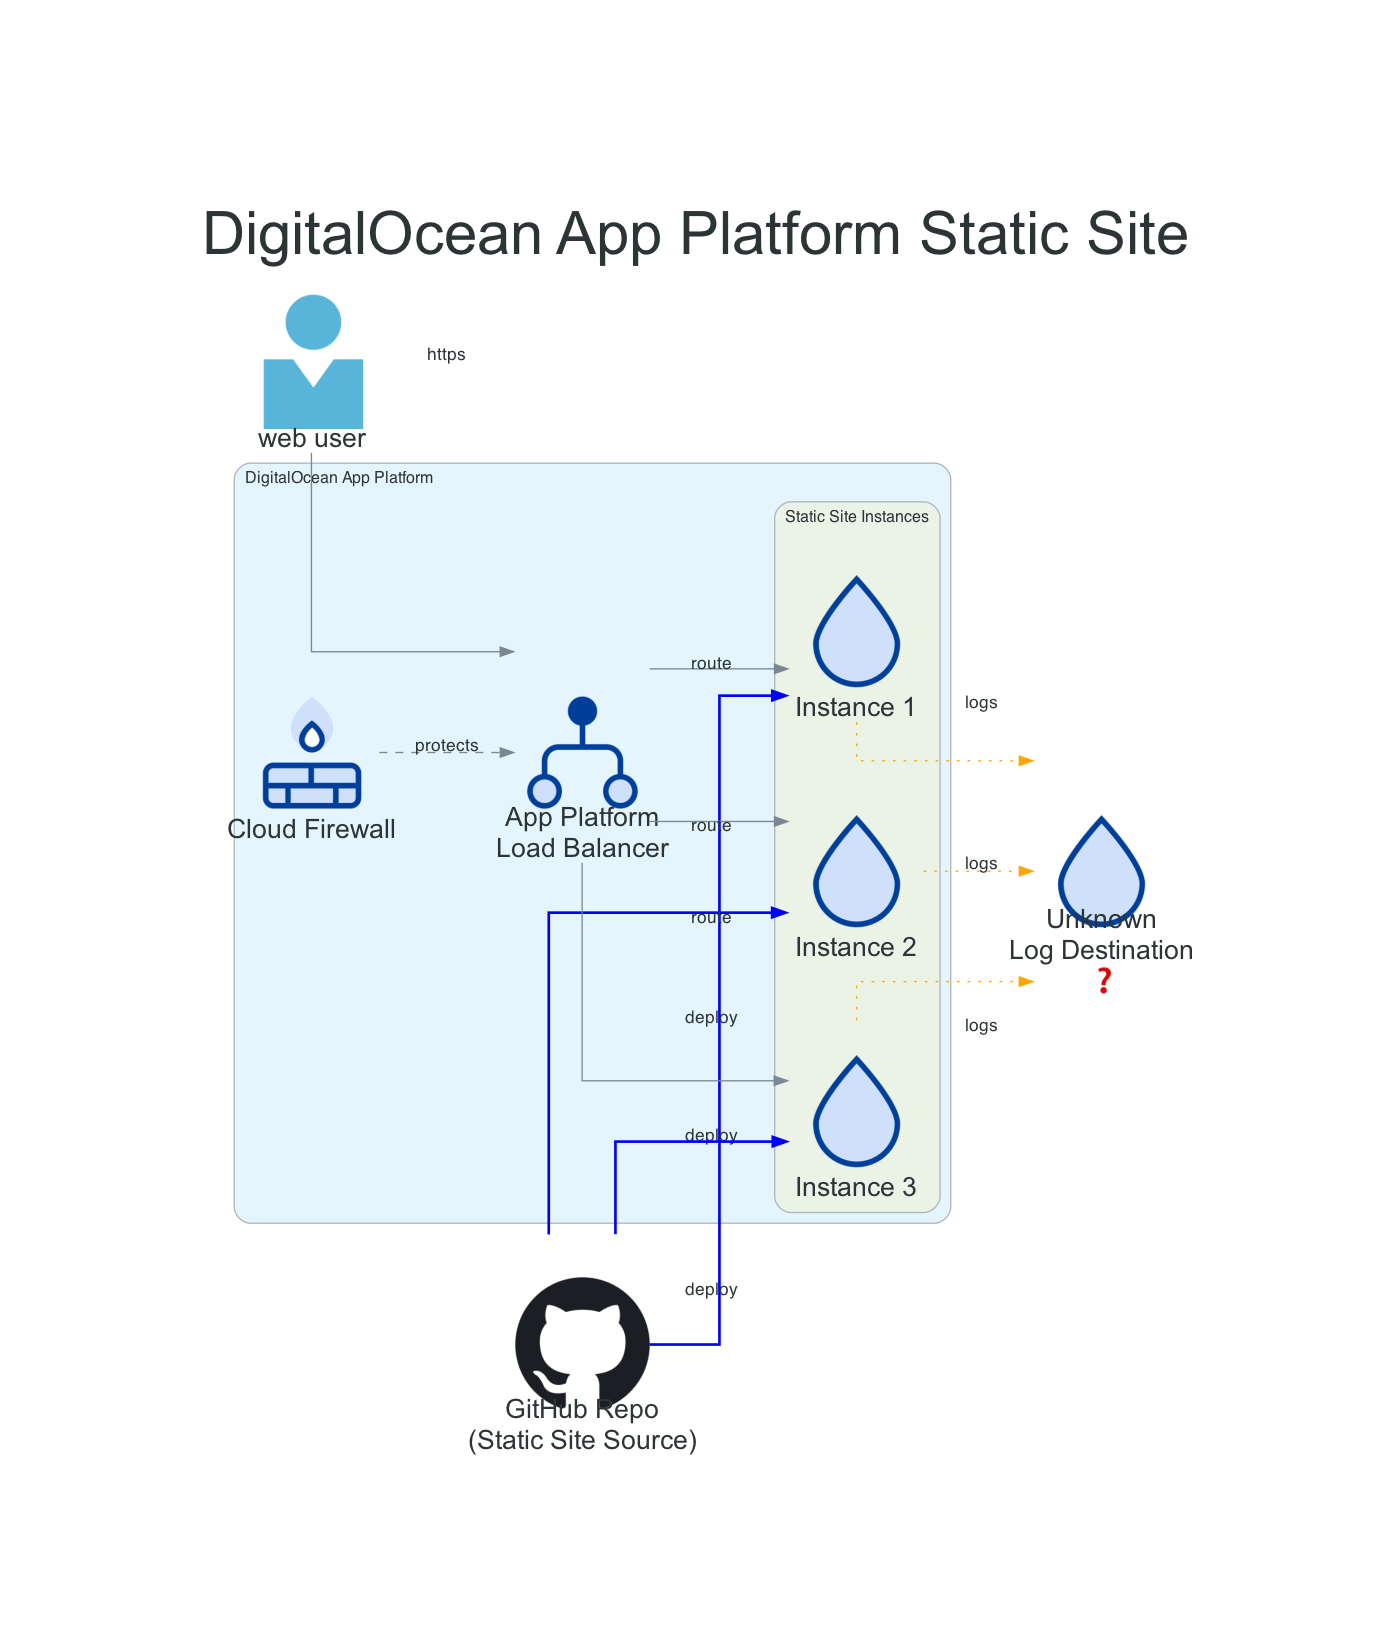
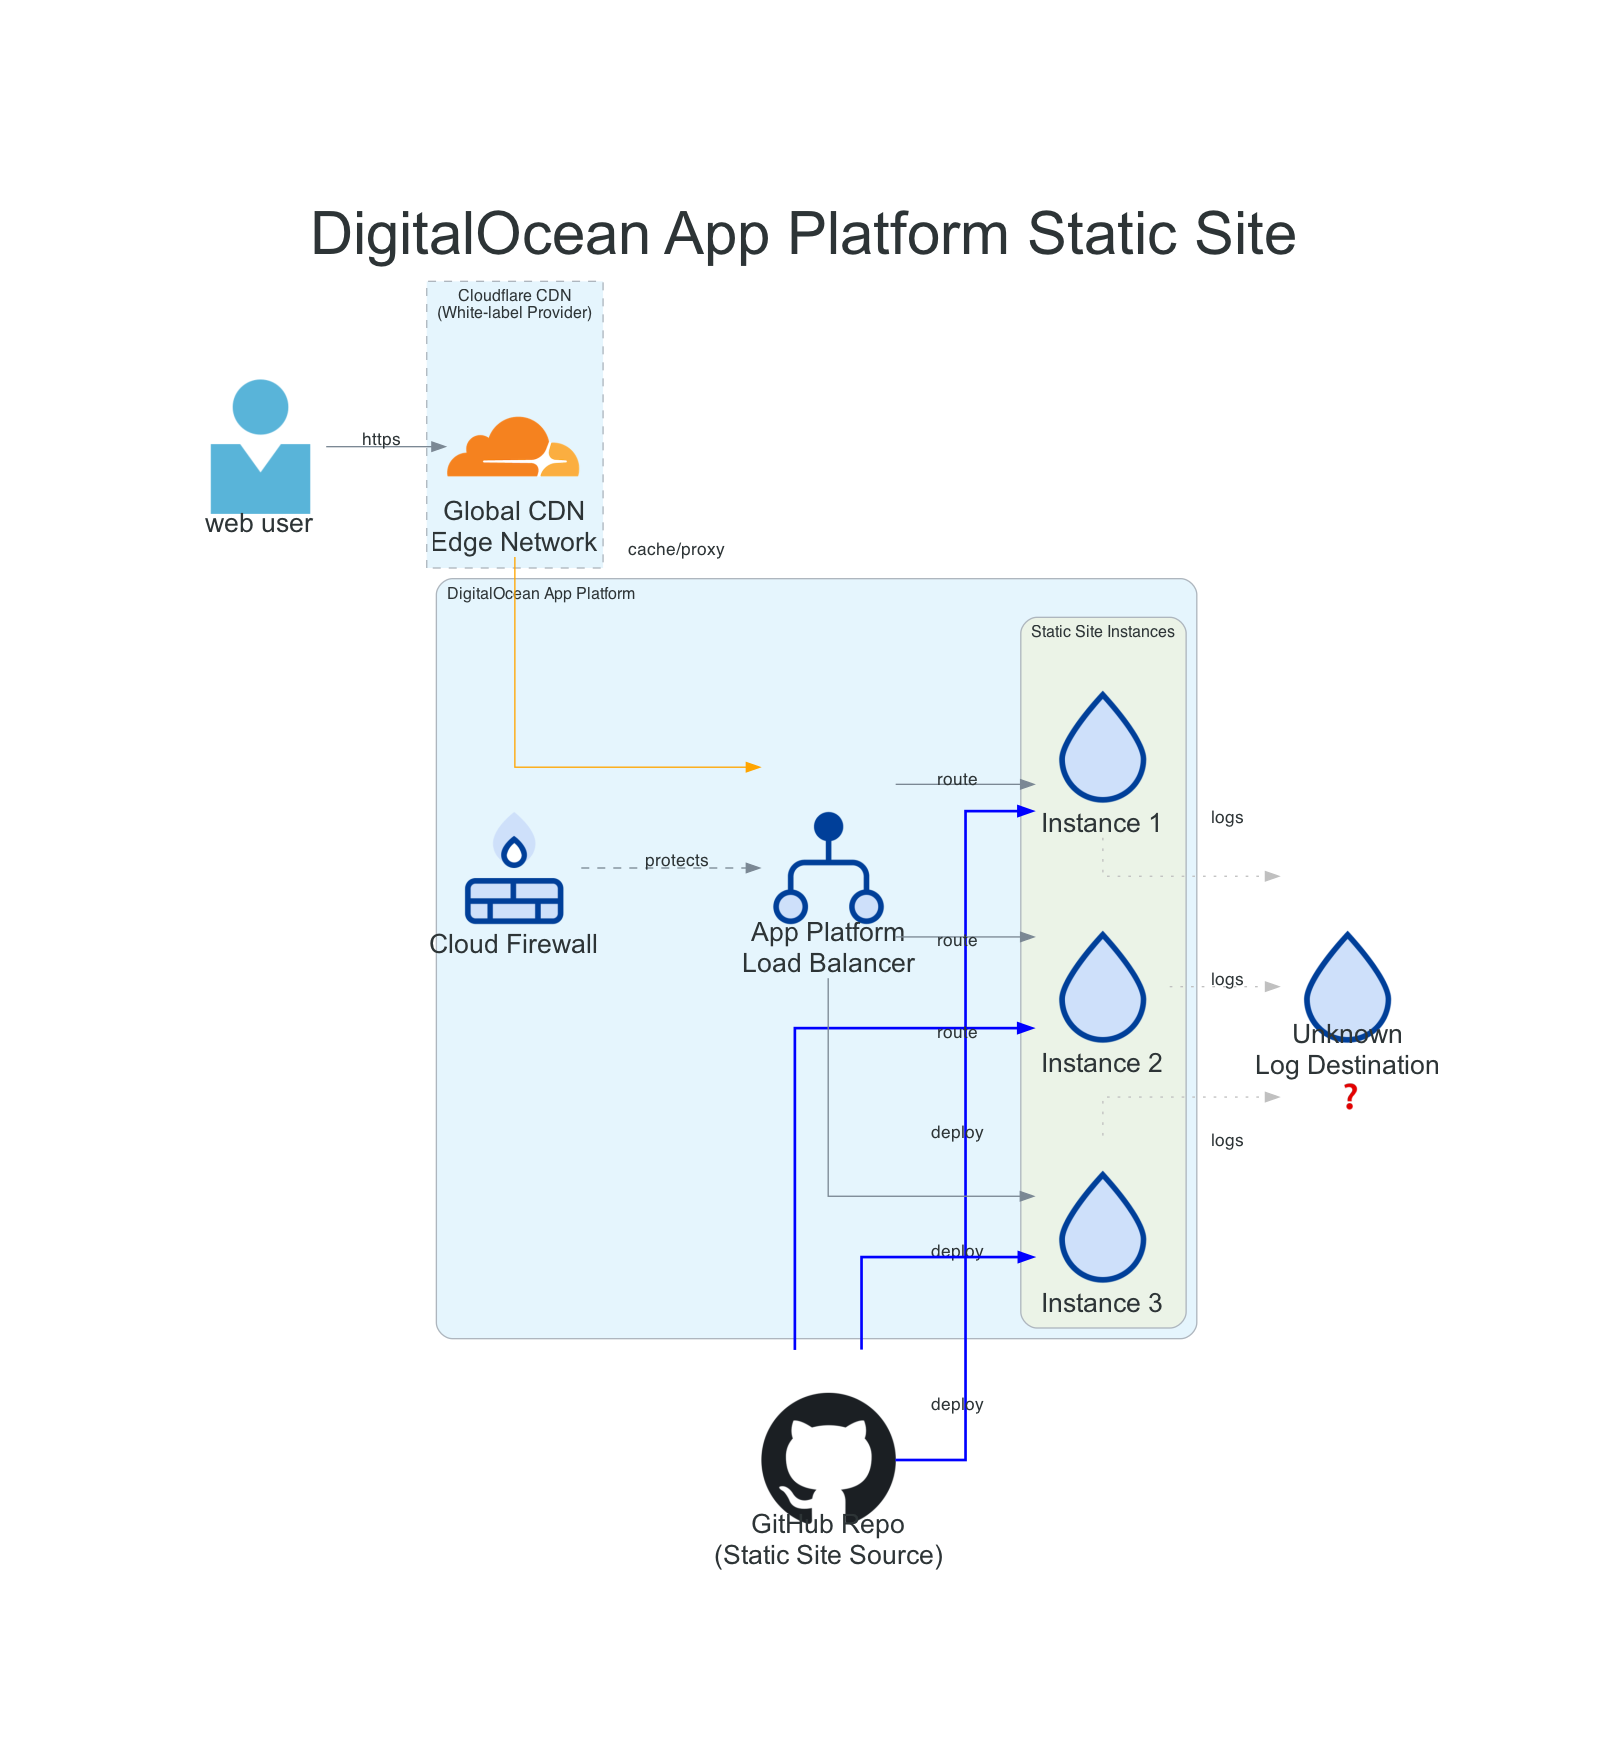
mention cloudflare

Changed region(s): [[0.1236, 0.1239, 0.8958, 0.898]]

diff --git a/architecture/diagrams/do-app-platform.py b/architecture/diagrams/do-app-platform.py
@@ -9,6 +9,7 @@ from diagrams import Cluster, Diagram, Edge
 from diagrams.azure.general import Usericon
 from diagrams.digitalocean.compute import Droplet
 from diagrams.digitalocean.network import Firewall, LoadBalancer
+from diagrams.saas.cdn import Cloudflare
 from diagrams.onprem.vcs import Github
 from diagrams.programming.framework import React
 
@@ -38,6 +39,9 @@ with Diagram(
     user = Usericon("web user")
     github = Github("GitHub Repo\n(Static Site Source)")
 
+    with Cluster("Cloudflare CDN\n(White-label Provider)", graph_attr={"style": "dashed", "color": "orange"}):
+        cdn = Cloudflare("Global CDN\nEdge Network")
+
     with Cluster("DigitalOcean App Platform"):
         lb = LoadBalancer("App Platform\nLoad Balancer")
 
@@ -54,16 +58,17 @@ with Diagram(
     # Deployment flow
     github >> Edge(label="deploy", color="blue", style="bold") >> [app1, app2, app3]
 
-    # User traffic flow
-    user >> Edge(label="https") >> lb
+    # User traffic flow through Cloudflare CDN
+    user >> Edge(label="https") >> cdn
+    cdn >> Edge(label="cache/proxy", color="orange") >> lb
     lb >> Edge(label="route") >> [app1, app2, app3]
 
     # Security
     firewall >> Edge(label="protects", style="dashed") >> lb
 
     # Logs to unknown destination
-    app1 >> Edge(label="logs", style="dotted", color="orange") >> unknown
-    app2 >> Edge(label="logs", style="dotted", color="orange") >> unknown
-    app3 >> Edge(label="logs", style="dotted", color="orange") >> unknown
+    app1 >> Edge(label="logs", style="dotted", color="grey") >> unknown
+    app2 >> Edge(label="logs", style="dotted", color="grey") >> unknown
+    app3 >> Edge(label="logs", style="dotted", color="grey") >> unknown
 
 print("Done generating DigitalOcean App Platform static site diagram.")
